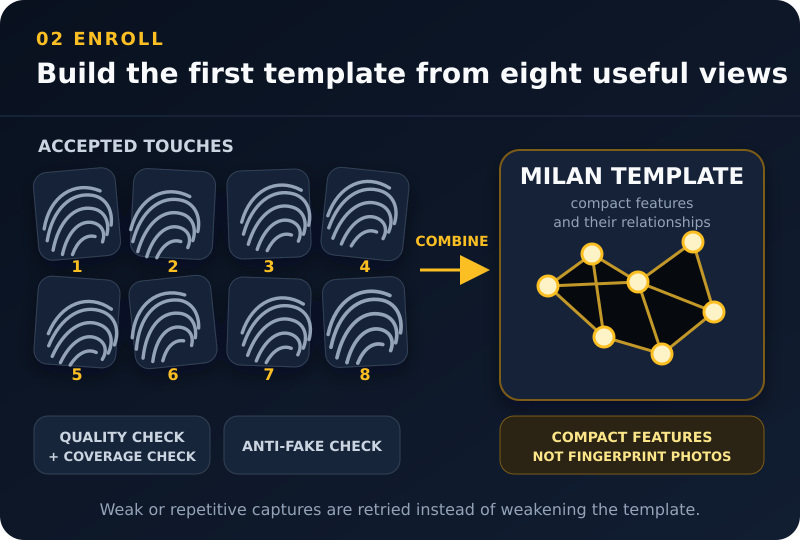
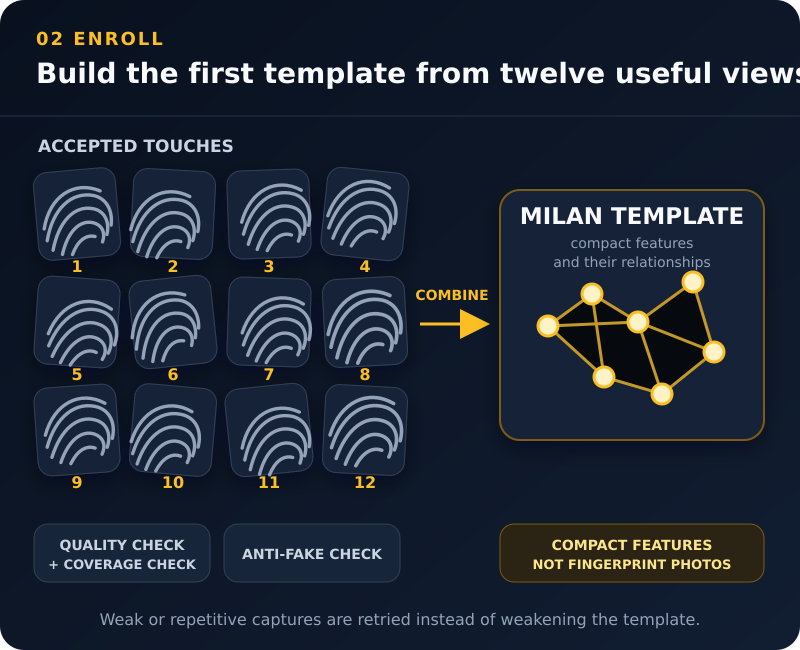
Use twelve samples for Milan Glass enrollment

diff --git a/drivers/goodix53x5/driver-private.h b/drivers/goodix53x5/driver-private.h
@@ -44,7 +44,7 @@
 #define GOODIX_FDT_BASE_LEN 24
 
 /* Enroll stages */
-#define GOODIX_ENROLL_SAMPLES 8
+#define GOODIX_ENROLL_SAMPLES 12
 
 /* PSK white box for writing the default all-zero PSK. */
 #define GOODIX_PSK_WHITE_BOX_LEN 96

diff --git a/README.md b/README.md
@@ -54,9 +54,9 @@ successful matches.
 Milan uses that baseline to remove the sensor background, expose ridge detail,
 check the image, and extract a compact fingerprint representation.
 
-<img src="images/milan-driver/02-enroll.png" alt="Eight accepted fingerprint touches being combined into a Milan template" width="800">
+<img src="images/milan-driver/02-enroll.png" alt="Accepted fingerprint touches being combined into a Milan template" width="800">
 
-**Build the first template.** Enrollment collects eight accepted touches.
+**Build the first template.** Enrollment collects twelve accepted touches.
 Different positions and pressure reveal different parts of the finger; weak or
 repetitive captures are retried. The resulting template stores extracted
 features and their relationships, not a gallery of fingerprint photographs.
